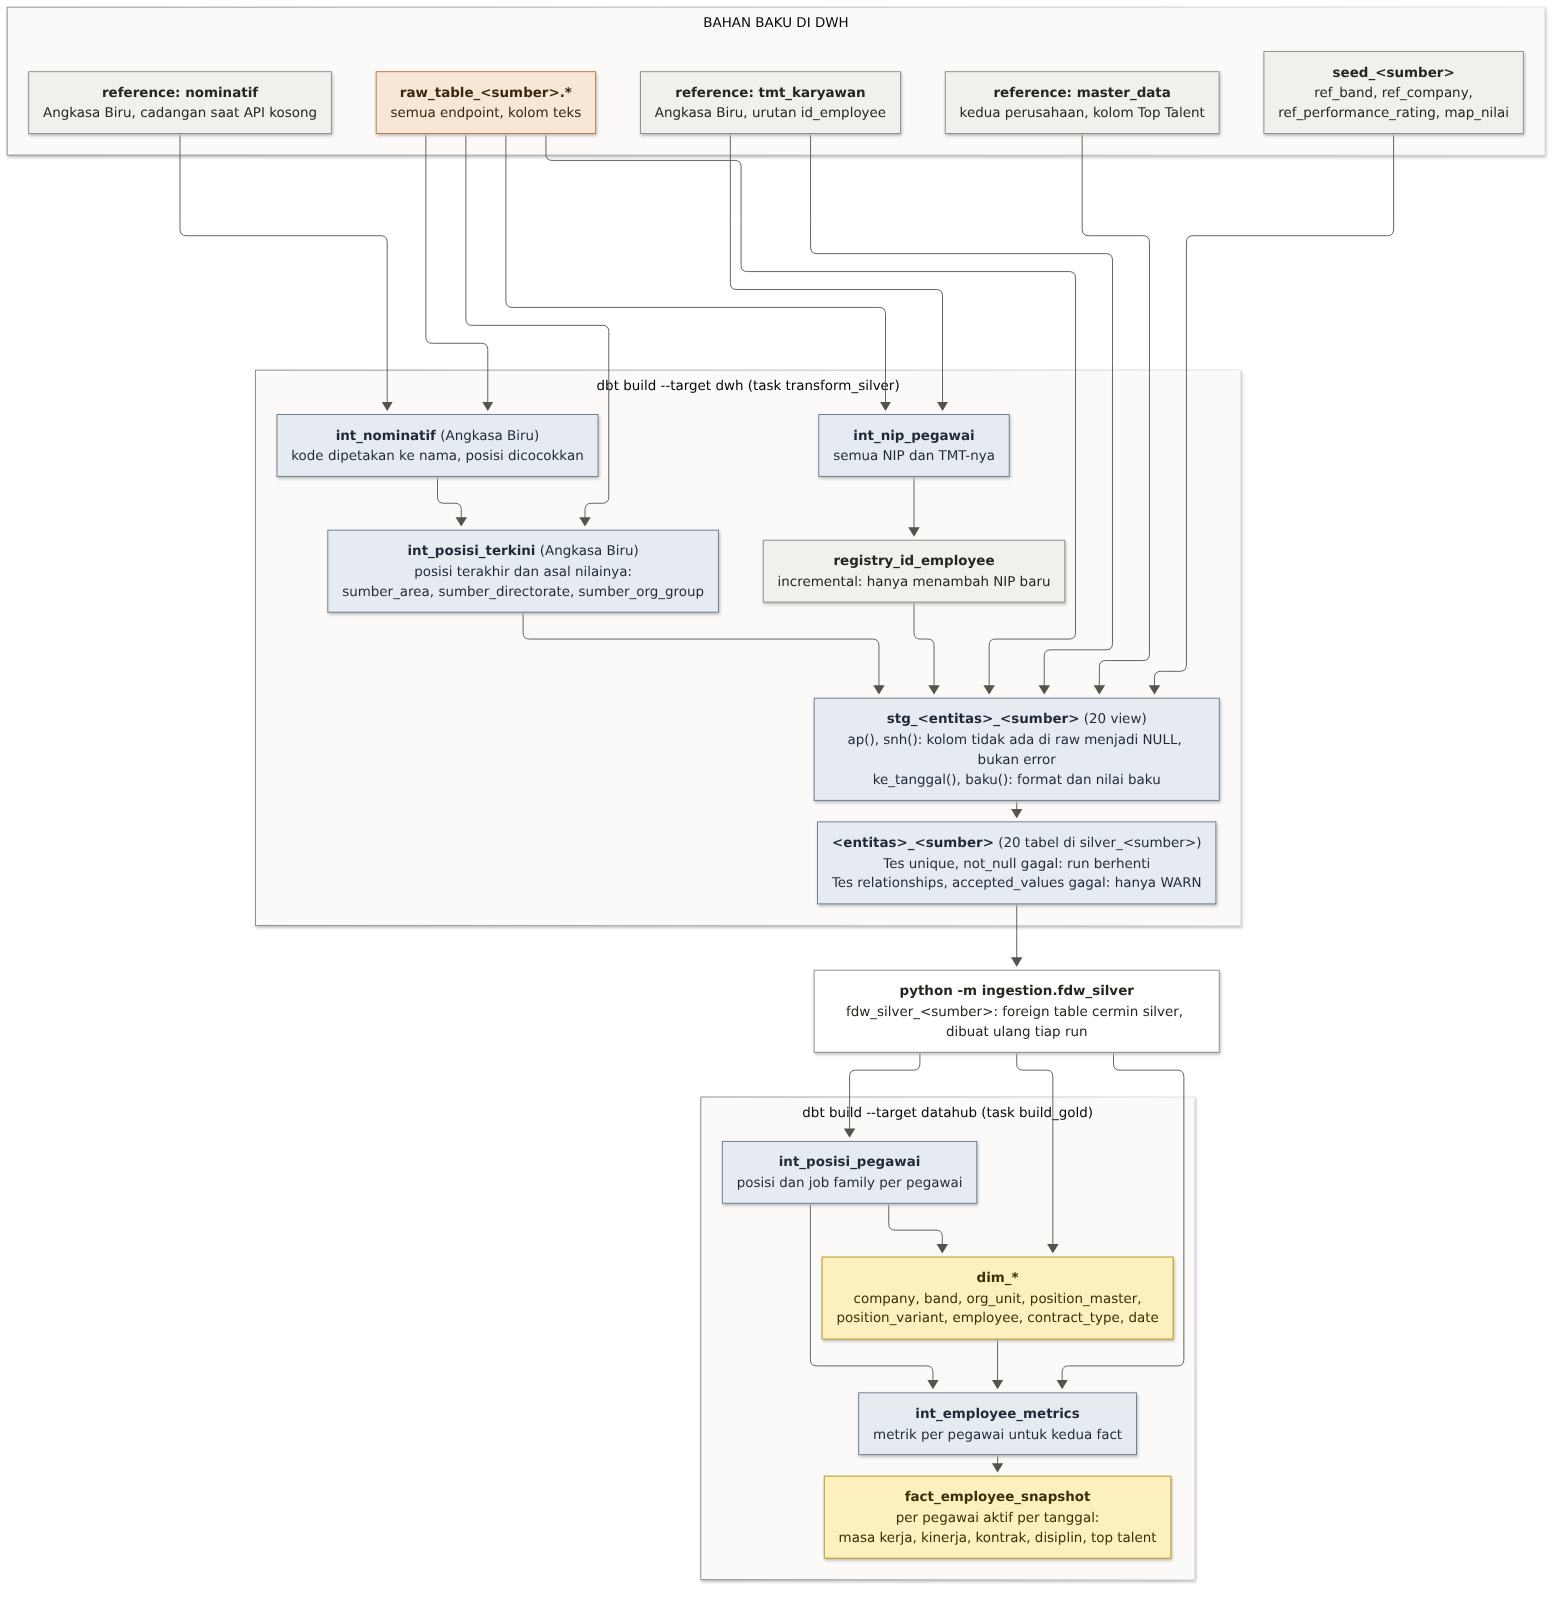
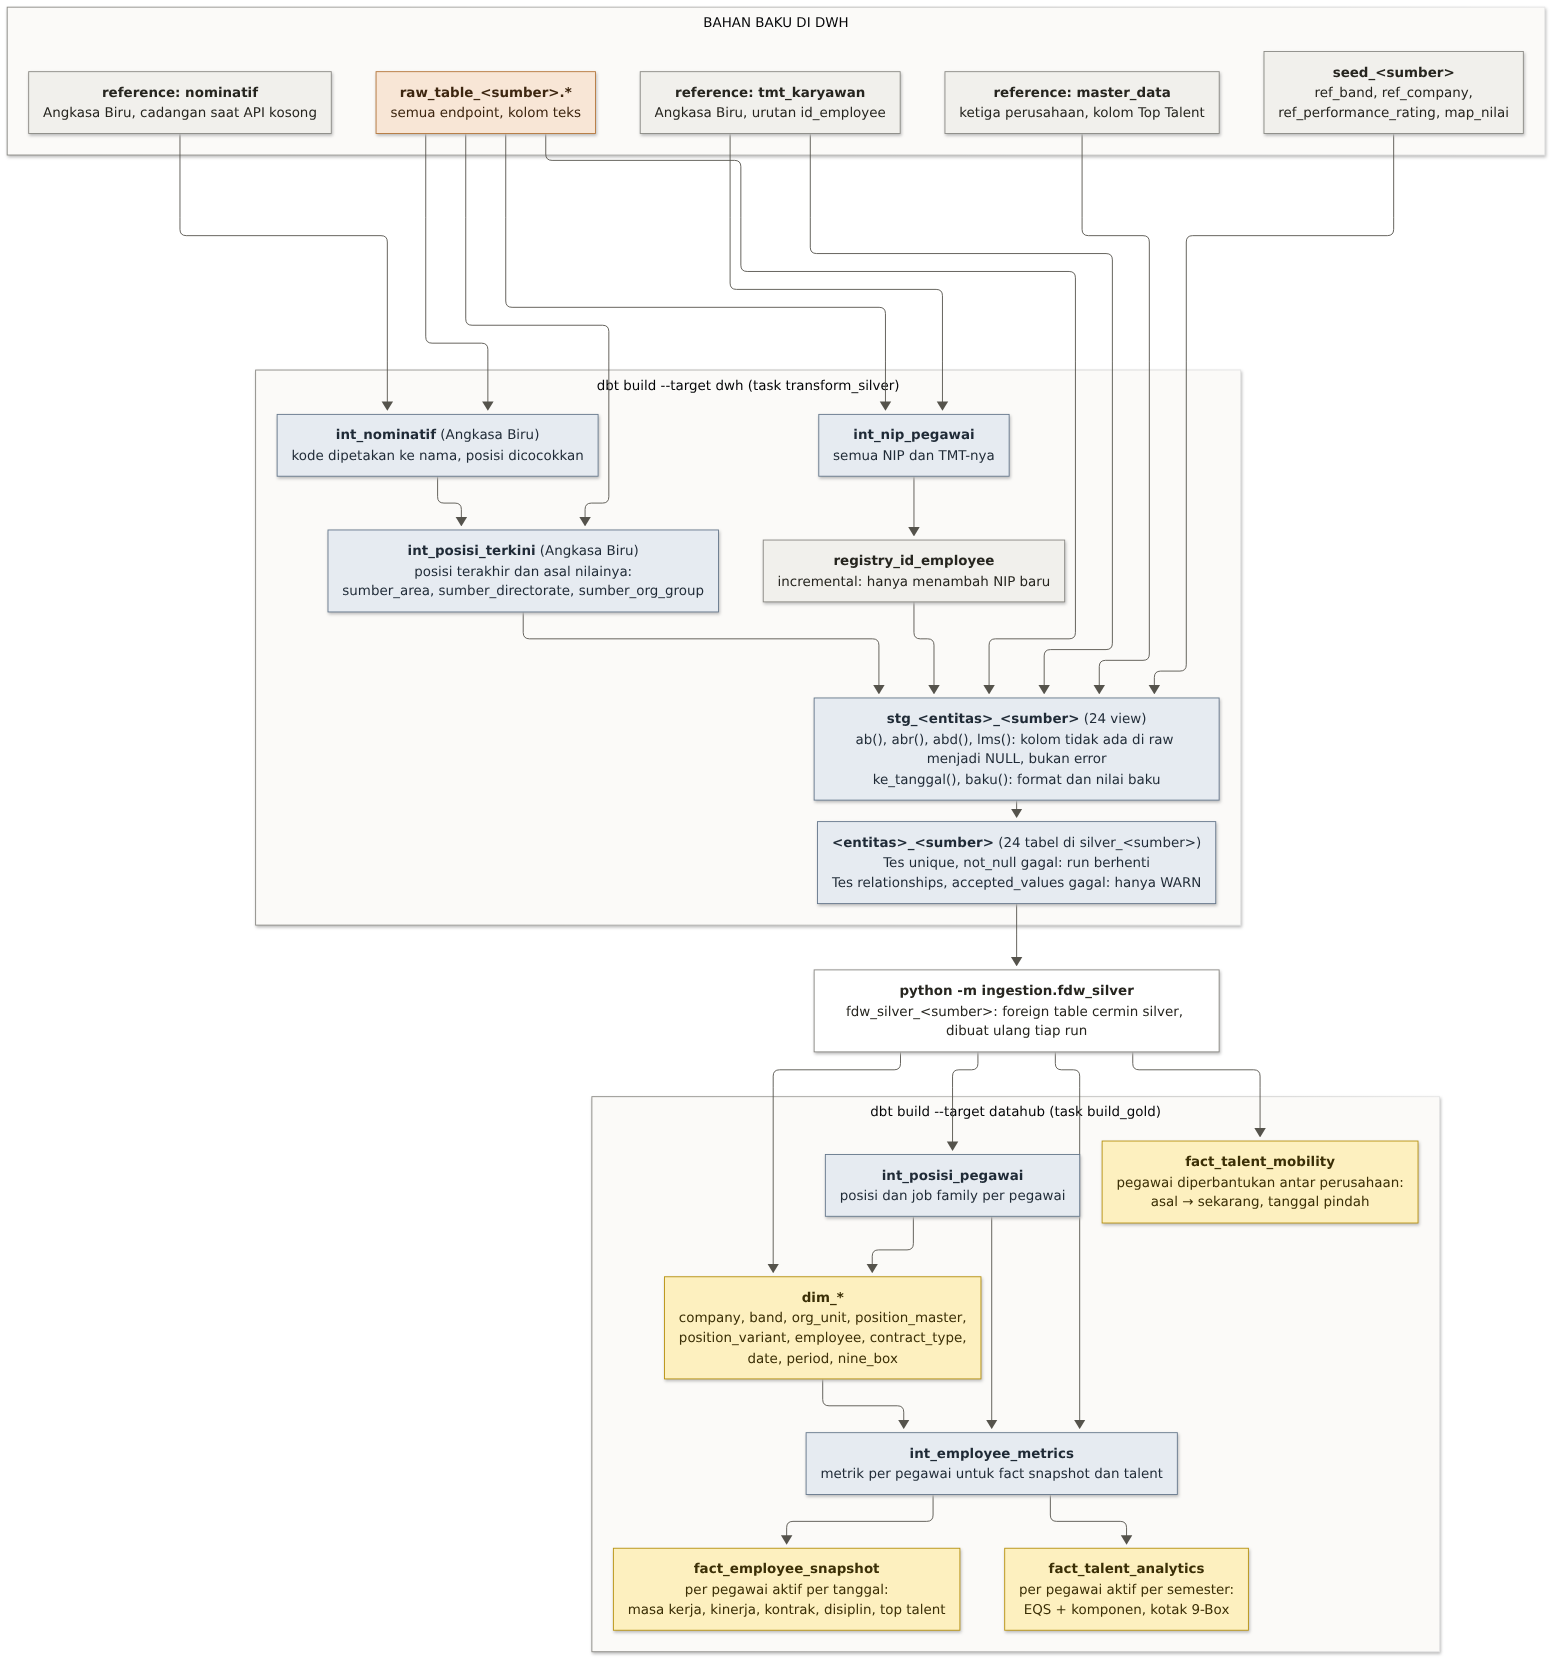
Penambahan fact table talent mobility

diff --git a/tests/test_gold.py b/tests/test_gold.py
@@ -1,6 +1,6 @@
 """Layer gold (Data Hub): star schema gabungan semua perusahaan, sesuai katalog BRD bagian 6.2
-(2 fact + 10 dimensi; EQS dan 9-Box dihidupkan lagi 15 November 2026 setelah sumber datanya
-dilengkapi instance API tiruan)."""
+(3 fact + 10 dimensi; EQS dan 9-Box dihidupkan lagi 15 November 2026 setelah sumber datanya
+dilengkapi instance API tiruan; fact_talent_mobility ditambah 20 November 2026)."""
 import pytest
 
 from .conftest import query, scalar

diff --git a/README.md b/README.md
@@ -294,7 +294,7 @@ dan tambahkan blok `dbt:` di YAML sumber; (4) untuk gold: daftarkan di `vars.gol
 
 ## 7. Pengujian dan saat ada masalah
 
-`make test` menjalankan ±325 pemeriksaan pytest terhadap data terpasang (butuh stack hidup). dbt juga
+`make test` menjalankan ±340 pemeriksaan pytest terhadap data terpasang (butuh stack hidup). dbt juga
 menguji dirinya saat `transform_silver`/`build_gold`: uji kunci (`unique`, `not_null`) menggagalkan run,
 uji relasi/nilai berstatus WARN. Dengan data sintetis yang konsisten penuh, kondisi normalnya 0 WARN
 (saat memakai API asli dulu ada 4-5 WARN bawaan kualitas sumber).
